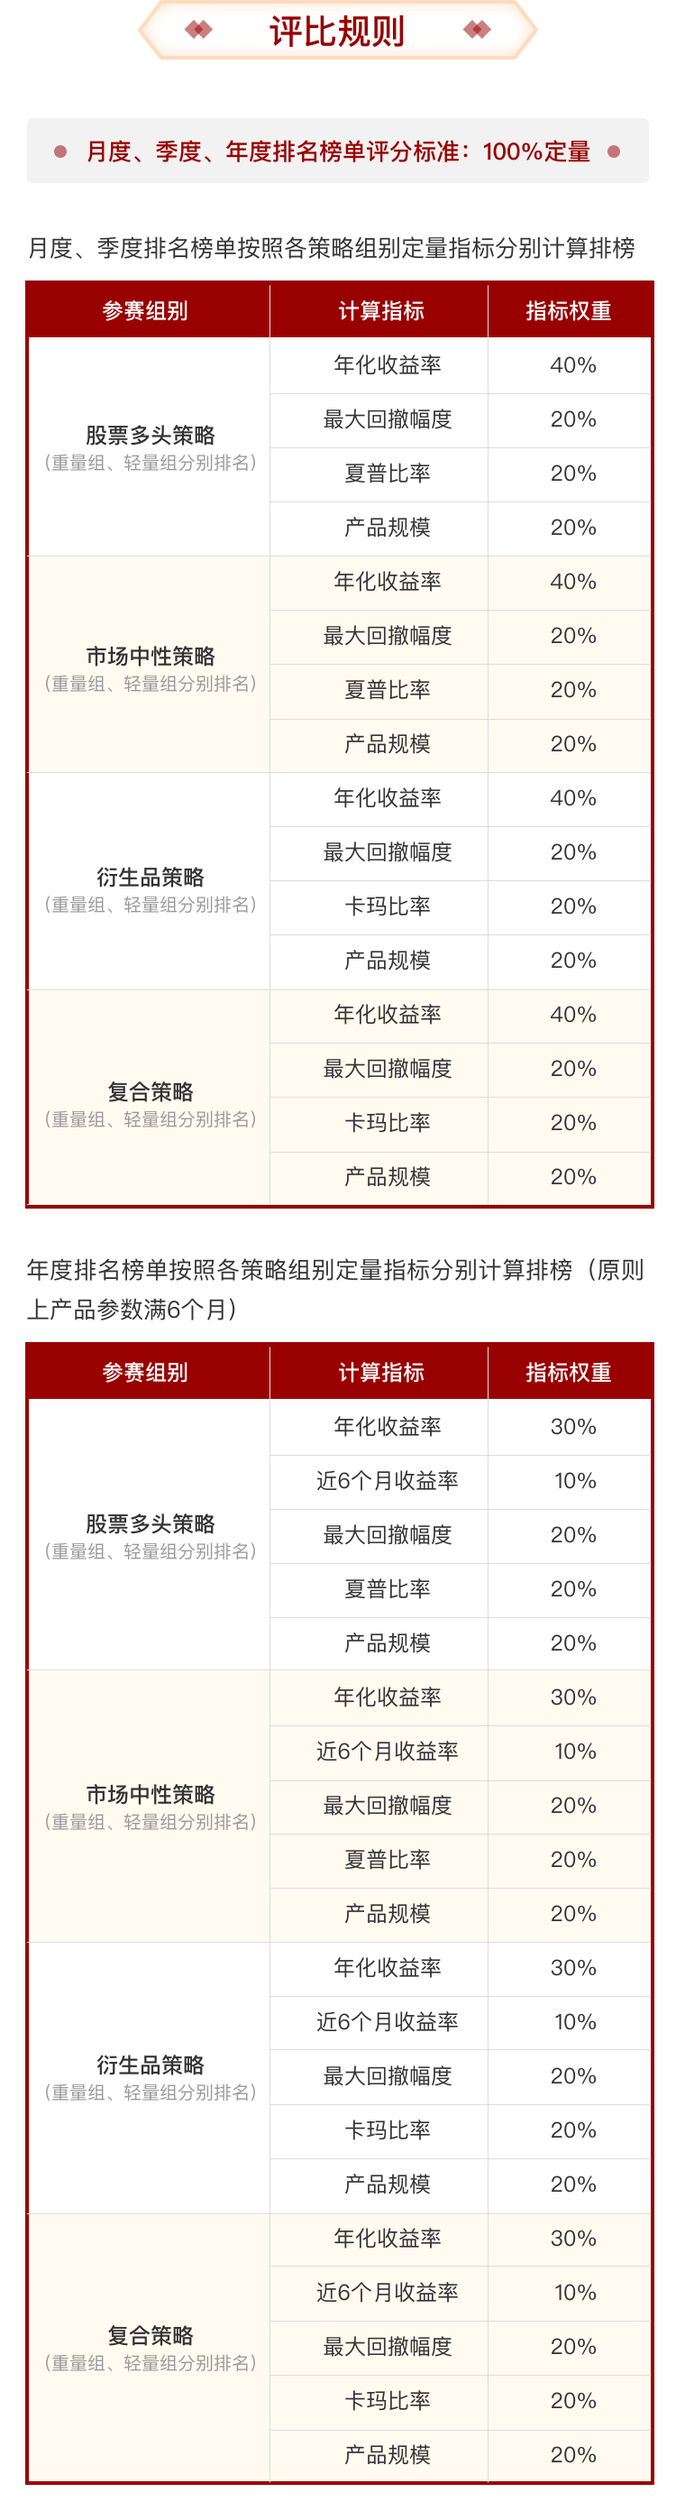
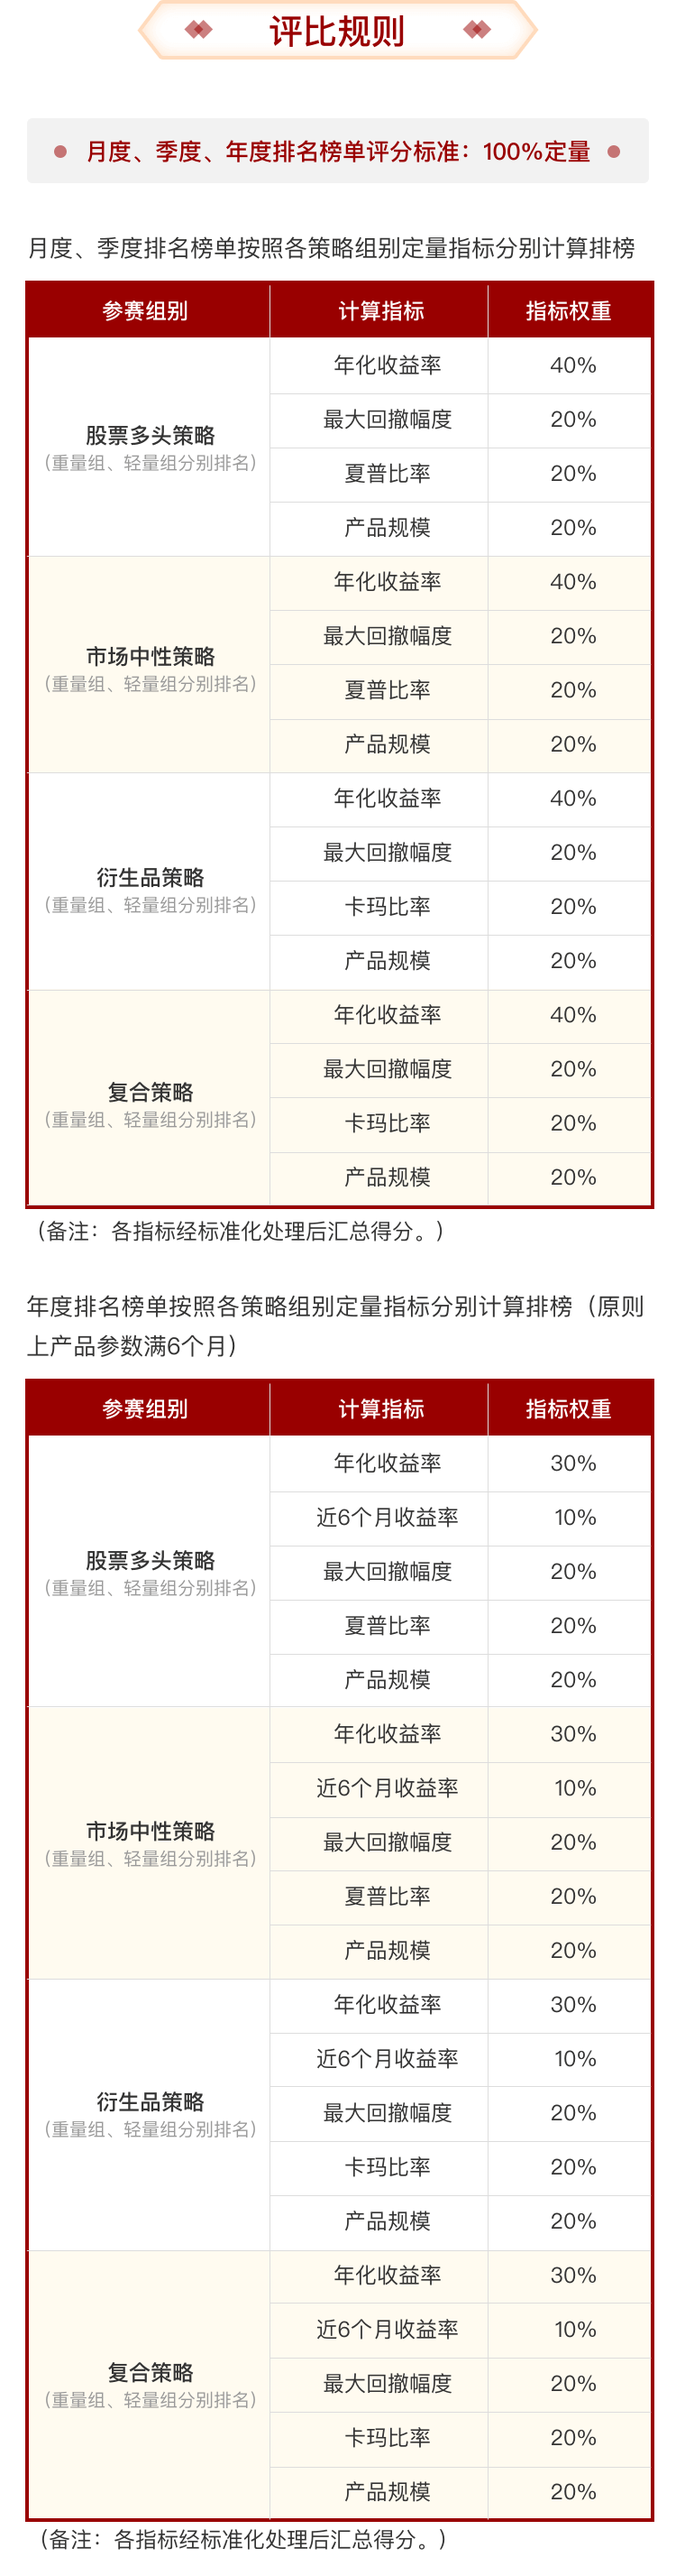
全站优化

diff --git a/pages/index.vue b/pages/index.vue
@@ -131,10 +131,15 @@ export default {
   beforeRouteEnter (to, form, next) {
     next((vm) => {
       if (vm.$store.state.disclaimer) {
-        if (to.path.includes('rank') || to.path.includes('assign')) {
-          if (sessionStorage.getItem('disclaimer')) return
+        if (to.path.includes('rank')) {
+          if (sessionStorage.getItem('disclaimer-rank')) return
           vm.show = true
-          sessionStorage.setItem('disclaimer', '1')
+          sessionStorage.setItem('disclaimer-rank', '1')
+        }
+        if (to.path.includes('assign')) {
+          if (sessionStorage.getItem('disclaimer-assign')) return
+          vm.show = true
+          sessionStorage.setItem('disclaimer-assign', '1')
         }
       }
     })

diff --git a/pages/mobile.vue b/pages/mobile.vue
@@ -82,10 +82,15 @@ export default {
   beforeRouteEnter (to, form, next) {
     next((vm) => {
       if (vm.$store.state.disclaimer) {
-        if (to.path.includes('rank') || to.path.includes('assign')) {
-          if (sessionStorage.getItem('disclaimer')) return
+        if (to.path.includes('rank')) {
+          if (sessionStorage.getItem('disclaimer-rank')) return
           vm.show = true
-          sessionStorage.setItem('disclaimer', '1')
+          sessionStorage.setItem('disclaimer-rank', '1')
+        }
+        if (to.path.includes('assign')) {
+          if (sessionStorage.getItem('disclaimer-assign')) return
+          vm.show = true
+          sessionStorage.setItem('disclaimer-assign', '1')
         }
       }
     })
